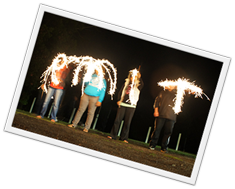
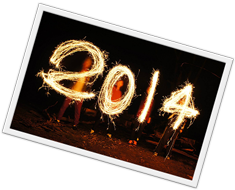
2014 hero image on fees page

diff --git a/README.md b/README.md
@@ -55,5 +55,5 @@ Known issues
 
 - Lack of focus indicator when tabbing through Youtube channel widget on social page.
 - Keyboard trap caused by Youtube player on social page in Firefox.
-- Unable to tab through Youtube player on social page in Chrome.
+- Unable to tab inside Youtube player on social page in Chrome.
 - Potential keyboard trap due to infite scroll functionnality of Facebook iframe on social page.
